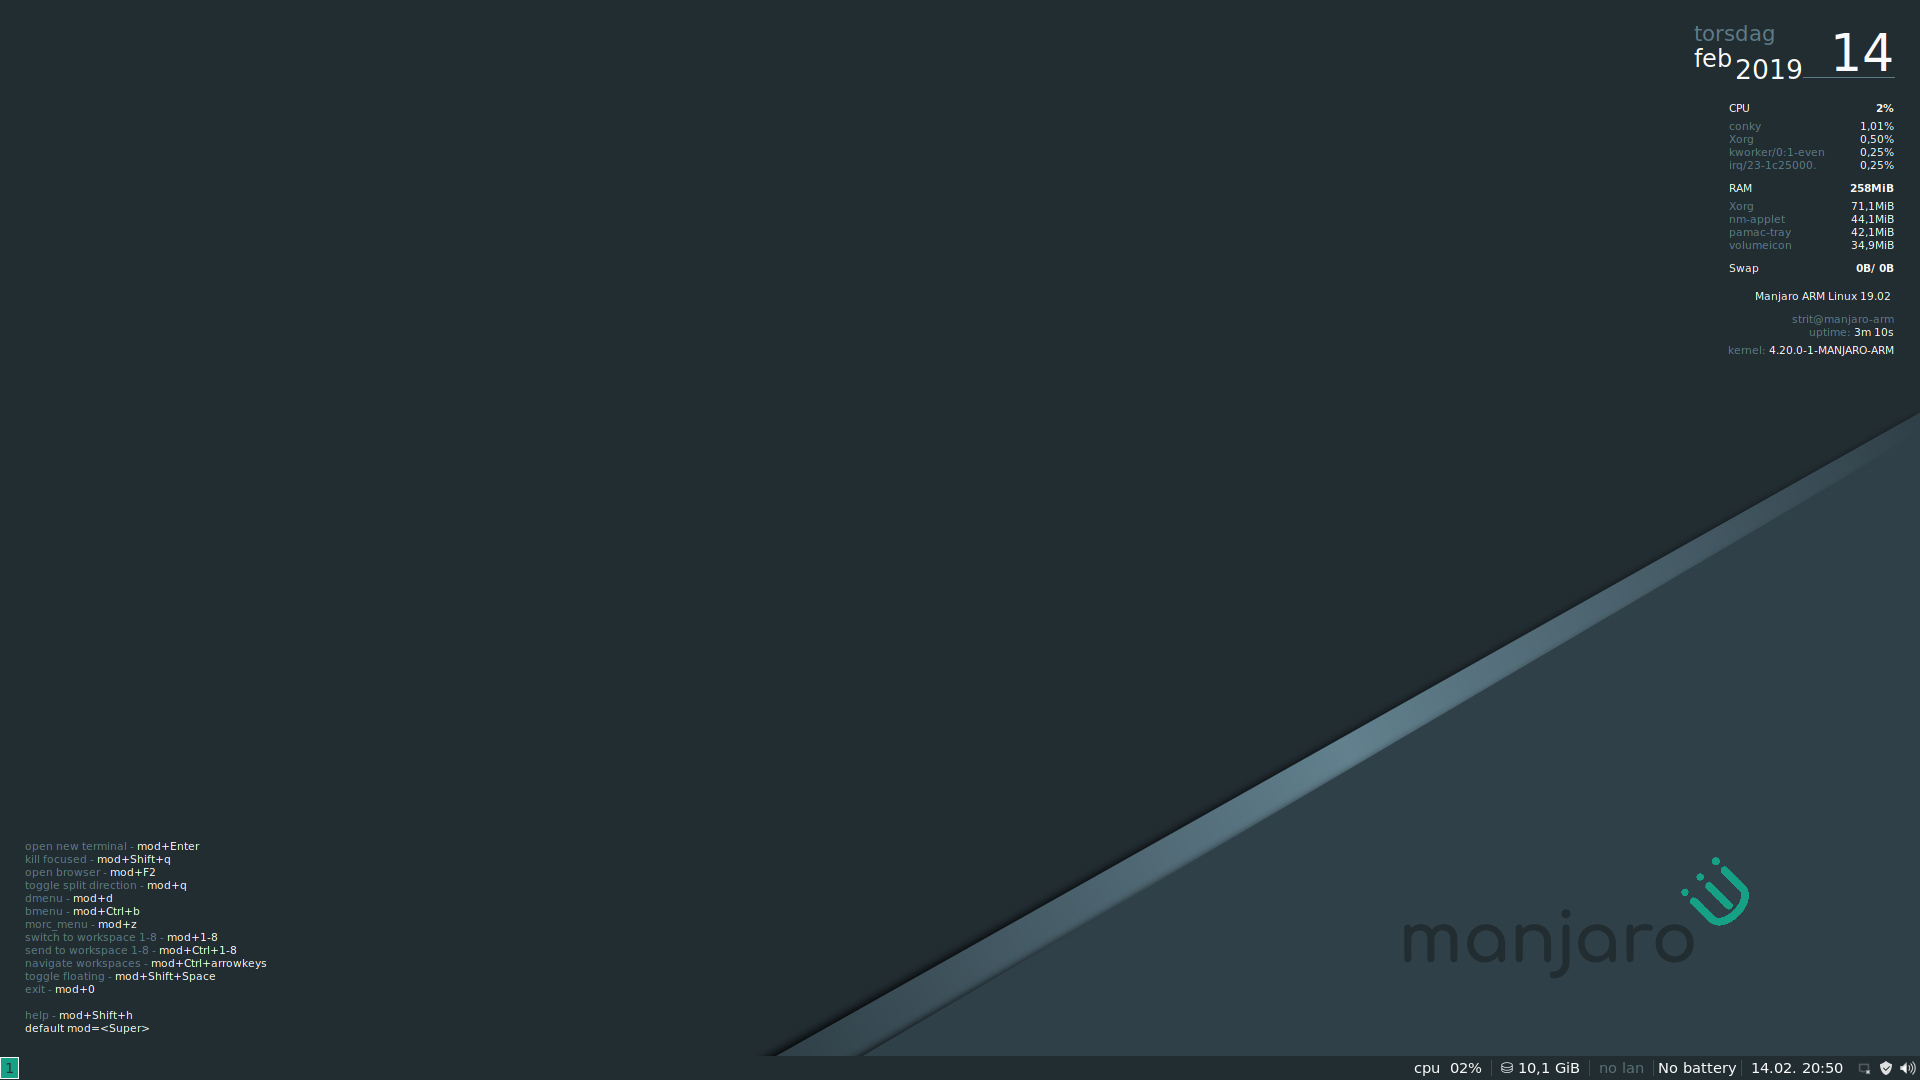
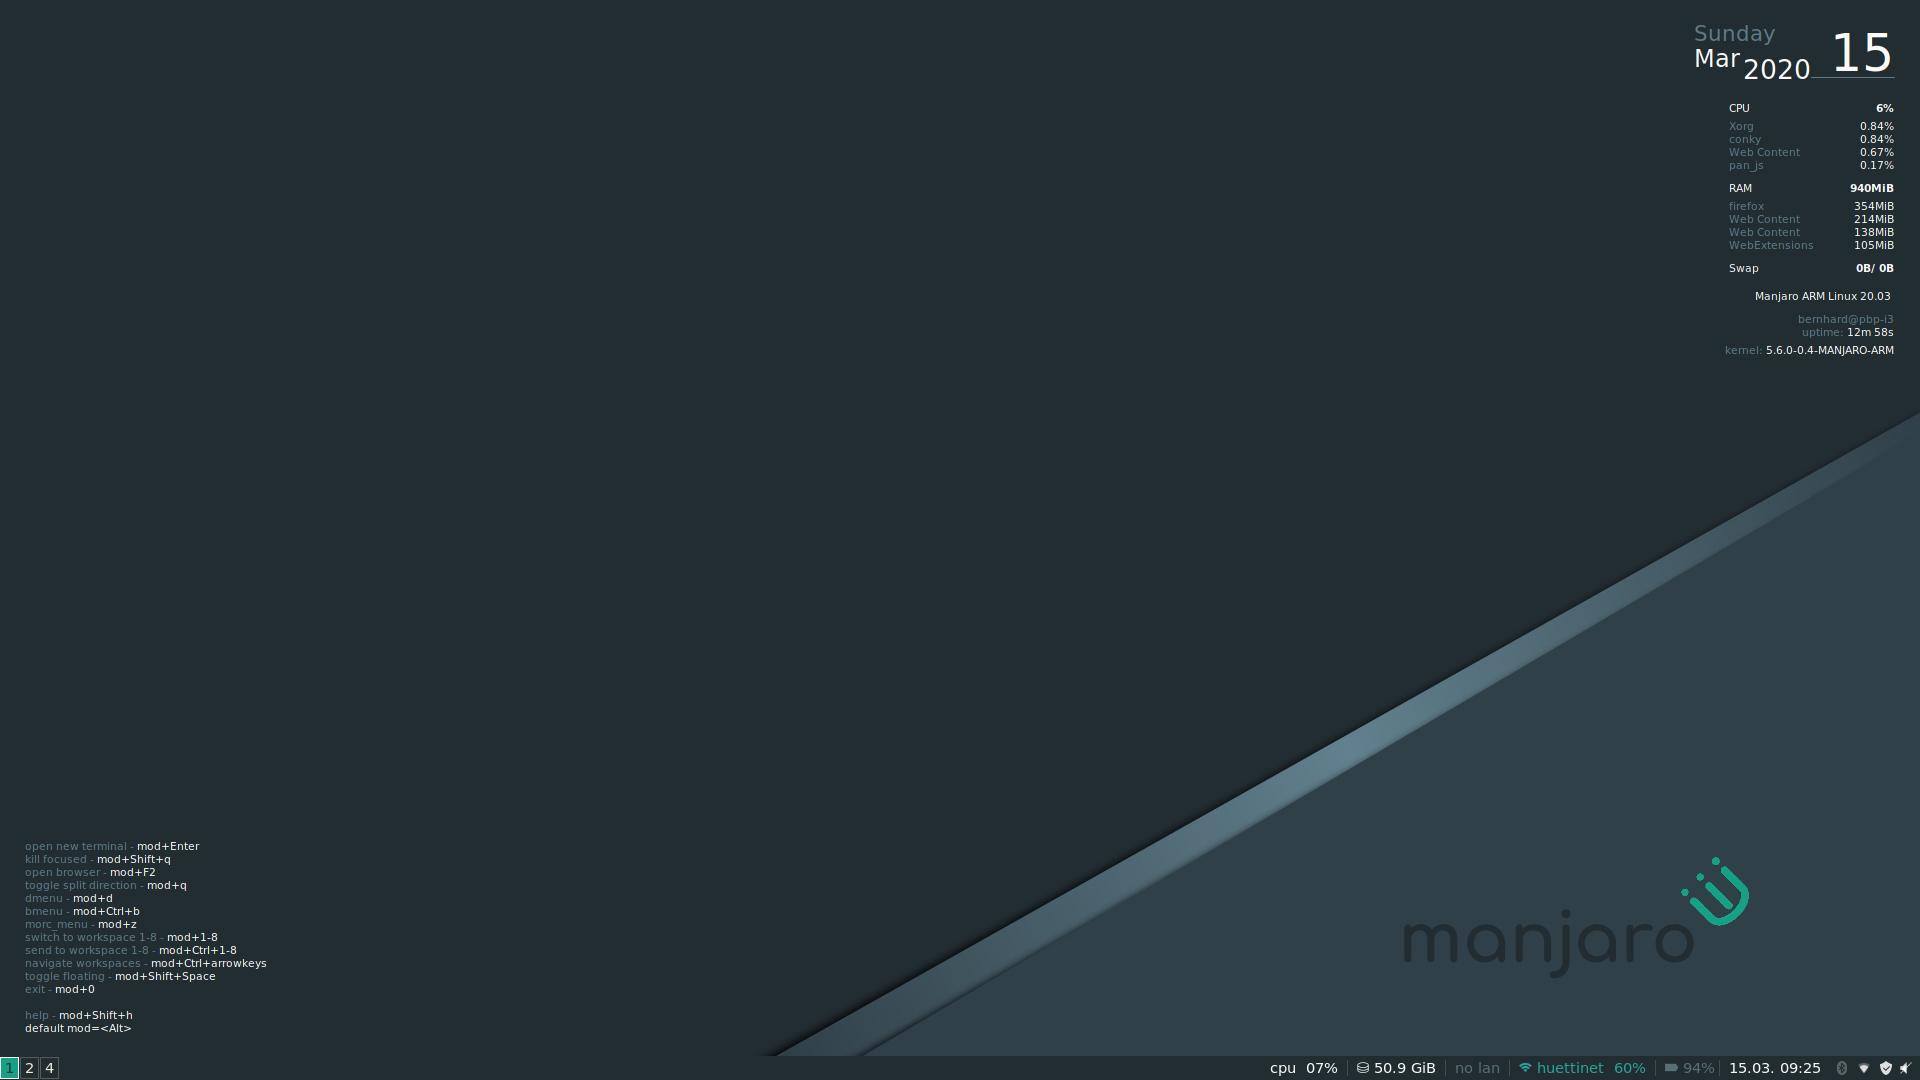
add pbp i3

diff --git a/site/content/downloads/arm/pinebook-pro/arm8-pinebook-pro-i3.md b/site/content/downloads/arm/pinebook-pro/arm8-pinebook-pro-i3.md
@@ -1,0 +1,29 @@
++++
+Download_x64 = "https://osdn.net/projects/manjaro-arm/storage/pbpro/i3/20.03/Manjaro-ARM-i3-pbpro-20.03.img.xz"
+Download_x64_Checksum = "fed0bda89fcd44ba18e55ad5b0d811e8d6c8e992"
+Download_x64_Sig = "https://osdn.net/projects/manjaro-arm/storage/pbpro/i3/20.03/Manjaro-ARM-i3-pbpro-20.03.img.xz.sig"
+Download_x64_Torrent = "https://osdn.net/projects/manjaro-arm/storage/pbpro/i3/20.03/Manjaro-ARM-i3-pbpro-20.03.img.xz.torrent"
+Download_x86 = ""
+Download_x86_Checksum = ""
+Download_x86_Sig = ""
+Download_x86_Torrent = ""
+Name = "Pinebook Pro I3"
+Screenshot = "arm-i3-full.png"
+Youtube = ""
+edition = "ARM"
+device = "PineBook Pro"
+shortDescription = "Manjaro ARM with the lightweight tiling window manager I3."
+Thumbnail = "arm-i3-full.png"
+Version = "20.03"
+date = "03.2020"
+title = "Pinebook Pro I3"
+type="download-edition"
+weight = "1"
+meta_description = "Manjaro XFCE on ARM is the one of the fastest DE's available and the most stable."
+meta_keywords = "manjaro i3 arm, manjaro download"
++++
+
+This edition is supported by the Manjaro ARM team and comes with the i3 tiling window manager.
+
+I3 is an extremely lightweight tiling window manager, famous for its efficiency with screen space and keyboard controlled workflow. The ideal environment for text and terminal focused usage for advanced users.
+
